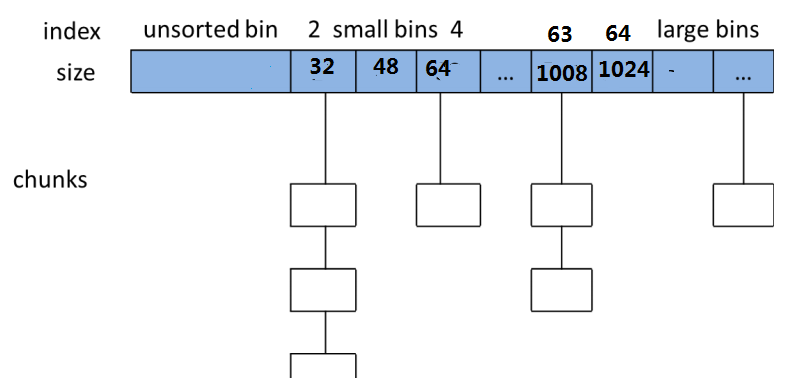
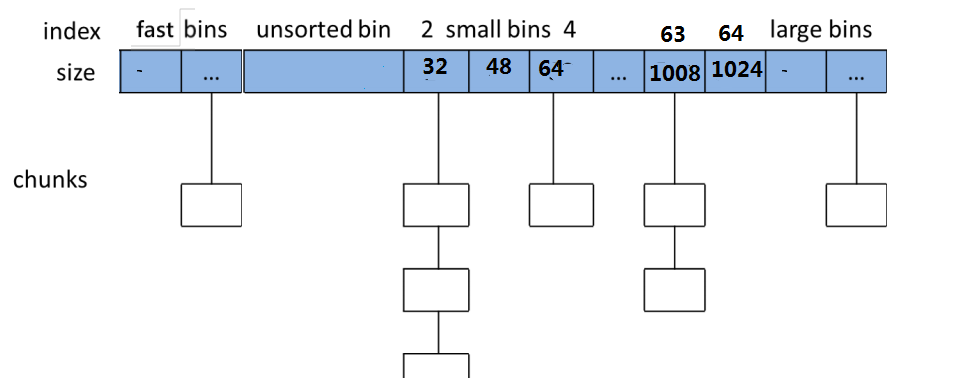
fix

diff --git a/_posts/2018-07-07-memory-allocator-contrasts.md b/_posts/2018-07-07-memory-allocator-contrasts.md
@@ -82,41 +82,22 @@ For 64 bit systems:
 	
 
 ##### 线程中内存管理
-每一个内存分配区中维护着[bins]的列表数据结构，用于保存free chunks。根据chunk的不同，bins分为以下几种：
-> - Fast bin
-- Unsorted bin
-- Small bin
-- Large bin
+对于空闲的chunk，ptmalloc采用分箱式内存管理方式，每一个内存分配区中维护着[bins]的列表数据结构，用于保存free chunks。根据空闲chunk的大小和处于的状态将其放在四个不同的bin中，这四个空闲chunk的容器包括fast bins，unsorted bin， small bins和large bins。
+
+从工作原理来看：
+- Fast bins是小内存块的高速缓存，当一些大小小于64字节的chunk被回收时，首先会放入fast bins中，在分配小内存时，首先会查看fast bins中是否有合适的内存块，如果存在，则直接返回fast bins中的内存块，以加快分配速度。
+- Usorted bin只有一个，回收的chunk块必须先放到unsorted bin中，分配内存时会查看unsorted bin中是否有合适的chunk，如果找到满足条件的chunk，则直接返回给用户，否则将unsorted bin的所有chunk放入small bins或是large bins中。
+- Small bins用于存放固定大小的chunk，共64个bin，最小的chunk大小为16字节或32字节，每个bin的大小相差8字节或是16字节，当分配小内存块时，采用精确匹配的方式从small bins中查找合适的chunk。
+- Large bins用于存储大于等于512B或1024B的空闲chunk，这些chunk使用双向链表的形式按大小顺序排序，分配内存时按最近匹配方式从large bins中分配chunk。
+
+从作用来看：
+- Fast bins 可以看着是small bins的一小部分cache，主要是用于提高小内存的分配效率，虽然这可能会加剧内存碎片化，但也大大加速了内存释放的速度！
+- Unsorted bin 可以重新使用最近 free 掉的 chunk，从而消除了寻找合适 bin 的时间开销，进而加速了内存分配及释放的效率。
+- Small bins 相邻的 free chunk 将被合并，这减缓了内存碎片化，但是减慢了 free 的速度；
+- Large bin 中所有 chunk 大小不一定相同，各 chunk 大小递减保存。最大的 chunk 保存顶端，而最小的 chunk 保存在尾端；查找较慢，且释放时两个相邻的空闲 chunk 会被合并。
+
 其中fastbins保存在malloc_state结构的fastbinsY变量中，其他三者保存在malloc_state结构的bins变量中。
-
-###### Fast Bin
-在所有的 bins 中，fast bins 路径享有最快的内存分配及释放速度。
-
-- 每个 fast bin 都维护着一条 free chunk 的单链表，采用单链表是因为链表中所有 chunk 的大小相等，增删 chunk 发生在链表顶端即可；—— LIFO
-- fast bins 由一系列所维护 chunk 大小以 8 字节递增的 bins 组成。也即，fast bin[0] 维护大小为 16 字节的 chunk、fast bin[1] 维护大小为 24 字节的 chunk。依此类推……
-- 指定 fast bin 中所有 chunk 大小相同；
-- 无需合并 —— 两个相邻 chunk 不会被合并。虽然这可能会加剧内存碎片化，但也大大加速了内存释放的速度！
-
-###### Unsorted Bin
-当 small chunk 和 large chunk 被 free 掉时，它们并非被添加到各自的 bin 中，而是被添加在 「unsorted bin」 中。这使得分配器可以重新使用最近 free 掉的 chunk，从而消除了寻找合适 bin 的时间开销，进而加速了内存分配及释放的效率。
-- chunk 大小：无限制，任何大小的 chunk 均可添加到这里。
-
-###### Small Bin
-大小小于 512 字节的 chunk 被称为 「small chunk」，而保存 small chunks 的 bin 被称为 「small bin」。在内存分配回收的速度上，small bin 比 large bin 更快。
-- 每个 small bin 都维护着一条 free chunk 的双向循环链表。free 掉的 chunk 添加在链表的顶端，而 malloc 的 chunk 从链表尾端摘除。—— FILO
-- Small bins 由一系列所维护 chunk 大小以 8 字节递增的 bins 组成。举例而言，small bin[0] （Bin 2）维护着大小为 16 字节的 chunks、small bin[1]（Bin 3）维护着大小为 24 字节的 chunks ，依此类推……
-- 合并 —— 相邻的 free chunk 将被合并，这减缓了内存碎片化，但是减慢了 free 的速度；
-
-###### Large Bin
-每个 large bin 都维护着一条 free chunk 的双向循环链表。free 掉的 chunk 添加在链表的顶端，而 malloc 的 chunk 从链表尾端摘除。——FILO
-- 32 个 bins 所维护的 chunk 大小以 64B 递增，也即 large chunk[0](Bin 65) 维护着大小为 512B ~ 568B 的 chunk 、large chunk[1](Bin 66) 维护着大小为 576B ~ 632B 的 chunk，依此类推……
-- large bin 中所有 chunk 大小不一定相同，各 chunk 大小递减保存。最大的 chunk 保存顶端，而最小的 chunk 保存在尾端；
-- 合并 —— 两个相邻的空闲 chunk 会被合并；
-
-如果相应 bin 中的最大 chunk 大小大于用户请求大小，分配器就从该 bin 顶端遍历到尾端，以找到一个大小最接近用户请求的 chunk。一旦找到，相应 chunk 就会被切分成两块：     
-> User chunk（用户请求大小）—— 返回给用户；        
-Remainder chunk （剩余大小）—— 添加到 unsorted bin。     
-如果相应 bin 中的最大 chunk 大小小于用户请求大小，分配器就会扫描 binmaps，从而查找最小非空 bin。如果找到了这样的 bin，就从中选择合适的 chunk 并切割给用户；反之就使用 top chunk 响应用户请求。
+![skiplist]({{ site.url }}/public/blog-img/allocator/ptmalloc-free-bins.png)
 
 ##### Chunk说明
 一个 arena 中最顶部的 chunk 被称为「top chunk」。它不属于任何 bin 。当所有 bin 中都没有合适空闲内存时，就会使用 top chunk 来响应用户请求。当 top chunk 的大小比用户请求的大小小的时候，top chunk 就通过 sbrk（main arena）或 mmap（ thread arena）系统调用扩容。
